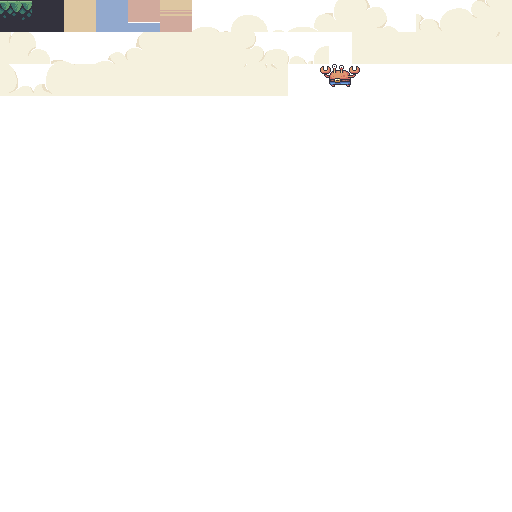
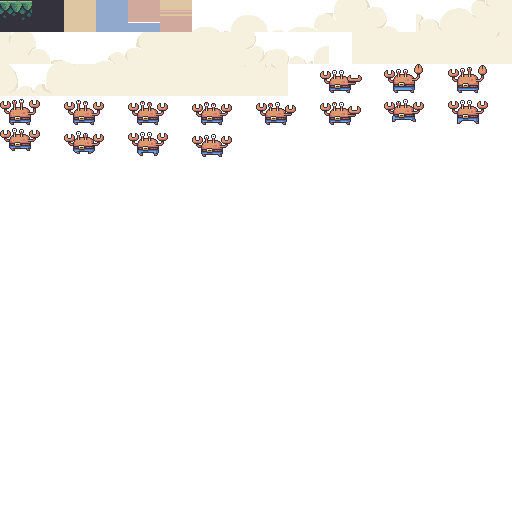
Added Idle and Run Sprites for Crabby

diff --git a/src/render.cpp b/src/render.cpp
@@ -83,7 +83,23 @@ static const char *const g_sprite_files[COUNTOF_SPR] = {
 	[SPR_SKY_HORIZON] = "sky-horizon.png",
 	[SPR_BIG_CLOUDS] = "big-clouds.png",
 	[SPR_GRID] = "grid.png",
-	[SPR_CRABBY_RUN_1] = "crabby-run-3.png"
+
+	[SPR_CRABBY_IDLE_1] = "crabby/01-idle/Idle 01.png",
+	[SPR_CRABBY_IDLE_2] = "crabby/01-idle/Idle 02.png",
+	[SPR_CRABBY_IDLE_3] = "crabby/01-idle/Idle 03.png",
+	[SPR_CRABBY_IDLE_4] = "crabby/01-idle/Idle 04.png",
+	[SPR_CRABBY_IDLE_5] = "crabby/01-idle/Idle 05.png",
+	[SPR_CRABBY_IDLE_6] = "crabby/01-idle/Idle 06.png",
+	[SPR_CRABBY_IDLE_7] = "crabby/01-idle/Idle 07.png",
+	[SPR_CRABBY_IDLE_8] = "crabby/01-idle/Idle 08.png",
+	[SPR_CRABBY_IDLE_9] = "crabby/01-idle/Idle 09.png",
+
+	[SPR_CRABBY_RUN_1] = "crabby/02-Run/Run 01.png",
+	[SPR_CRABBY_RUN_2] = "crabby/02-Run/Run 02.png",
+	[SPR_CRABBY_RUN_3] = "crabby/02-Run/Run 03.png",
+	[SPR_CRABBY_RUN_4] = "crabby/02-Run/Run 04.png",
+	[SPR_CRABBY_RUN_5] = "crabby/02-Run/Run 05.png",
+	[SPR_CRABBY_RUN_6] = "crabby/02-Run/Run 06.png",
 };
 
 static sprite *g_sprites[COUNTOF_SPR];

diff --git a/src/render.hpp b/src/render.hpp
@@ -20,8 +20,24 @@
 #define SPR_SKY_HORIZON 5
 #define SPR_BIG_CLOUDS 6
 #define SPR_GRID 7
-#define SPR_CRABBY_RUN_1 8
-#define COUNTOF_SPR 9 
+
+#define SPR_CRABBY_IDLE_1 8
+#define SPR_CRABBY_IDLE_2 9
+#define SPR_CRABBY_IDLE_3 10
+#define SPR_CRABBY_IDLE_4 11
+#define SPR_CRABBY_IDLE_5 12
+#define SPR_CRABBY_IDLE_6 13
+#define SPR_CRABBY_IDLE_7 14
+#define SPR_CRABBY_IDLE_8 15
+#define SPR_CRABBY_IDLE_9 16
+
+#define SPR_CRABBY_RUN_1 17
+#define SPR_CRABBY_RUN_2 18
+#define SPR_CRABBY_RUN_3 19
+#define SPR_CRABBY_RUN_4 20
+#define SPR_CRABBY_RUN_5 21
+#define SPR_CRABBY_RUN_6 22
+#define COUNTOF_SPR 23
 
 /**
  * rect - Rectangle 
